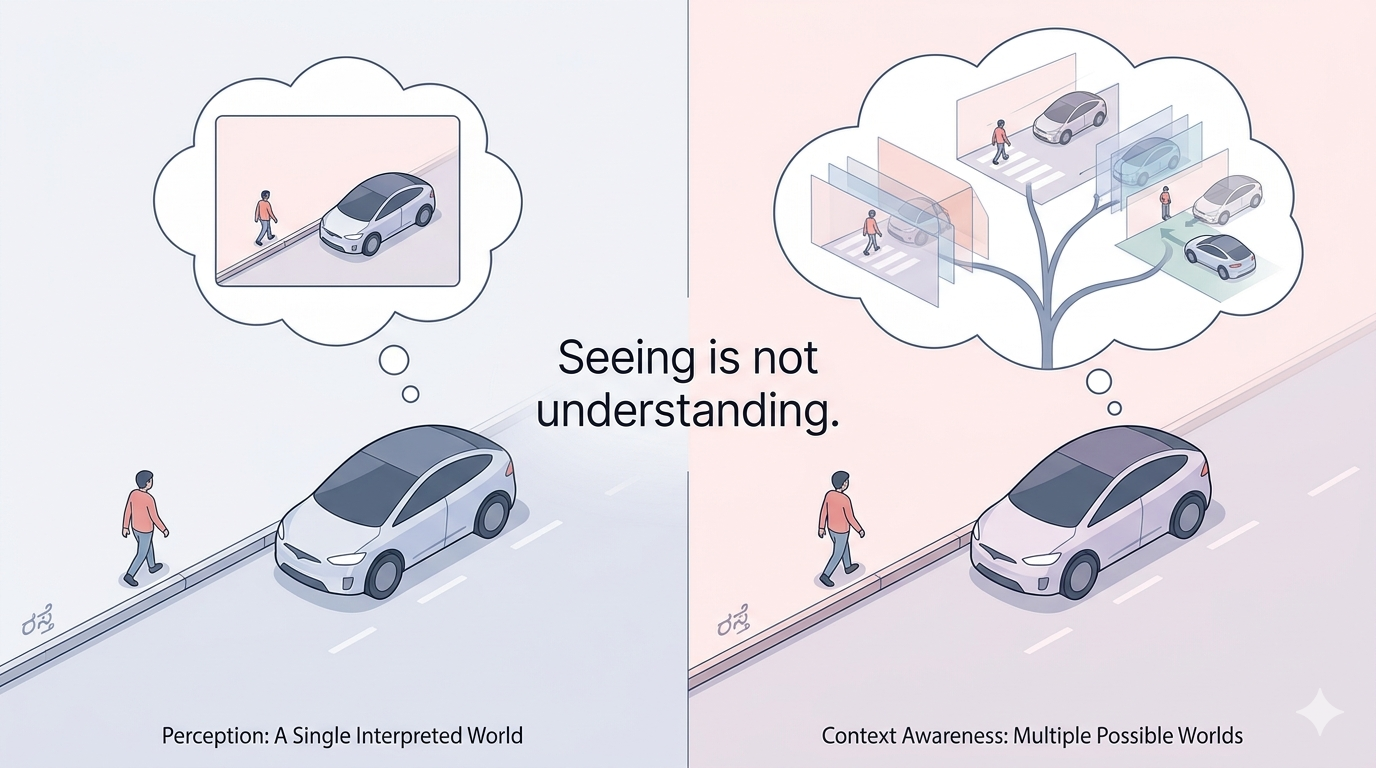
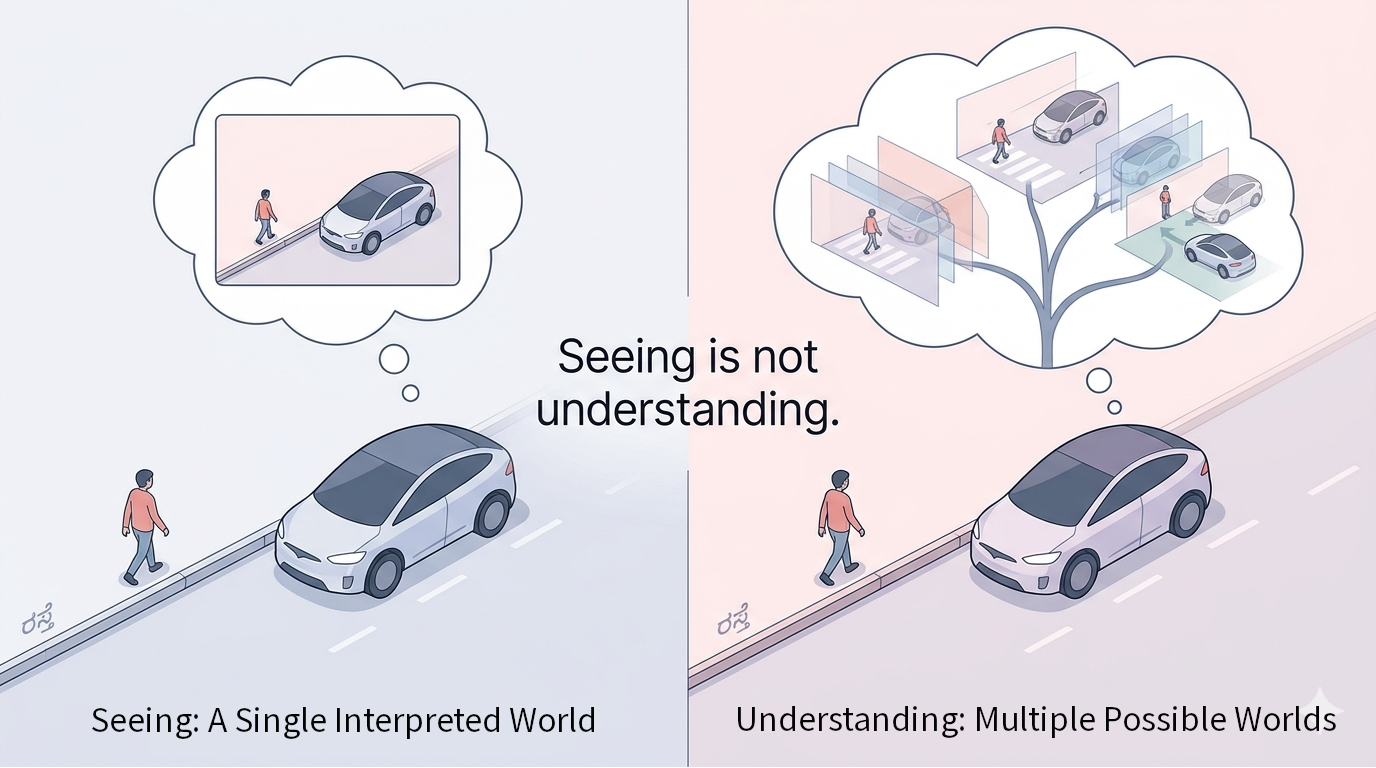
Update

diff --git a/index.html b/index.html
@@ -13,16 +13,35 @@
   <link rel="stylesheet" href="https://cdn.jsdelivr.net/npm/katex@0.16.10/dist/katex.min.css">
 </head>
 <body>
-  <div class="container">
+<div class="container">
     <header>
       <div class="name">Zengjie Zhang</div>
       <nav class="nav">
-        <a href="home.html" class="active">Home</a>
+        <a href="index.html" class="active">Home</a>
         <a href="blogs.html">Blogs</a>
       </nav>
     </header>
-
-    <section class="section-block">
+    
+    <!-- 两列布局容器 -->
+    <div class="content-with-sidebar">
+      <!-- 左侧边栏 -->
+      <aside class="sidebar">
+        <div class="sidebar-section">
+          <!-- <div class="sidebar-title">Connect</div> -->
+          <script src="https://platform.linkedin.com/badges/js/profile.js" async defer type="text/javascript"></script>
+        <div class="badge-base LI-profile-badge" data-locale="en_US" data-size="medium" data-theme="light" data-type="HORIZONTAL" data-vanity="zengjie-zhang" data-version="v1"><a class="badge-base__link LI-simple-link" href="https://nl.linkedin.com/in/zengjie-zhang?trk=profile-badge">CONNECT</a></div>
+        </div>
+        
+        <!-- 可选：添加其他侧边栏内容 -->
+        <!-- <div class="sidebar-section">
+          <div class="sidebar-title">Contact</div>
+          <p>Email: zengjie@azonai.co</p>
+        </div> -->
+      </aside>
+      
+      <!-- 右侧主要内容区域 -->
+      <main class="main-content">
+        <section class="section-block">
       <h2>About</h2>
       <p>
         I work on risk-aware verification and control of safety-critical autonomous systems, focusing on understanding and formalizing their safety and performance boundaries under uncertainty.
@@ -78,13 +97,15 @@
     <section>
       <h2>Recent Writing</h2>
       <ul class="blog-list">
+        <li><a href="blogs.html?id=20260316">High Accuracy, Low Understanding: The Hidden Gap in Autonomous Driving Safety</a></li>
         <li><a href="blogs.html?id=20260220">Beyond Scenarios: Why AI-Driven Scenario Testing Is Incomplete Without Formal Methods</a></li>
       </ul>
-    </section>
-
-    <footer>
+     </section>
+     <footer>
       © Zengjie Zhang · Personal Portfolio · <a href="mailto:zengjie@azonai.co">Contact</a>
     </footer>
+      </main>
+    </div>
   </div>
 
   <!-- 脚本加载 -->
@@ -102,7 +123,5 @@
       projectLoader.loadAndRenderAllProjects();
     });
   </script>
-  <script src="https://platform.linkedin.com/badges/js/profile.js" async defer type="text/javascript"></script>
-  <div class="badge-base LI-profile-badge" data-locale="en_US" data-size="medium" data-theme="light" data-type="HORIZONTAL" data-vanity="zengjie-zhang" data-version="v1"><a class="badge-base__link LI-simple-link" href="https://nl.linkedin.com/in/zengjie-zhang?trk=profile-badge">Zengjie Zhang</a></div>
 </body>
 </html>

diff --git a/js/markdown-loader.js b/js/markdown-loader.js
@@ -6,6 +6,7 @@ class MarkdownLoader {
     this.indexUrl = config.indexUrl || 'index.json';
     this.contentType = config.contentType || 'blog';
     this.enableMath = config.enableMath !== false; // 默认启用数学公式
+    this.enableMermaid = config.enableMermaid !== false; // 默认启用 Mermaid
     
     // 绑定方法
     this.init = this.init.bind(this);
@@ -14,6 +15,7 @@ class MarkdownLoader {
     this.renderList = this.renderList.bind(this);
     this.renderContent = this.renderContent.bind(this);
     this.renderMath = this.renderMath.bind(this);
+    this.renderMermaid = this.renderMermaid.bind(this);
   }
 
   // 新增：渲染数学公式的方法
@@ -33,6 +35,39 @@ class MarkdownLoader {
       });
     } catch (error) {
       console.warn('Math rendering error:', error);
+    }
+  }
+
+  // 新增：渲染 Mermaid 图表的方法
+  renderMermaid(element) {
+    if (!this.enableMermaid || typeof mermaid === 'undefined') return;
+    
+    try {
+      // 查找所有 Mermaid 代码块
+      const mermaidBlocks = element.querySelectorAll('pre code.language-mermaid');
+      
+      mermaidBlocks.forEach(codeBlock => {
+        const pre = codeBlock.parentElement;
+        if (pre && pre.tagName === 'PRE') {
+          // 创建新的 div 替换原来的 pre
+          const mermaidDiv = document.createElement('div');
+          mermaidDiv.className = 'mermaid';
+          mermaidDiv.textContent = codeBlock.textContent;
+          pre.parentNode.replaceChild(mermaidDiv, pre);
+        }
+      });
+      
+      // 渲染所有 mermaid 图表
+      const mermaidElements = element.querySelectorAll('.mermaid');
+      if (mermaidElements.length > 0 && typeof mermaid !== 'undefined') {
+        mermaid.run({
+          querySelector: '.mermaid',
+          nodes: mermaidElements,
+          suppressErrors: true
+        }).catch(err => console.warn('Mermaid rendering error:', err));
+      }
+    } catch (error) {
+      console.warn('Mermaid rendering error:', error);
     }
   }
 
@@ -96,10 +131,13 @@ class MarkdownLoader {
       </div>
     `;
     
-    // 2. 再渲染数学公式（关键步骤）
+    // 2. 渲染数学公式
     const articleContent = contentEl.querySelector('.article-content');
     if (articleContent) {
       this.renderMath(articleContent);
+      
+      // 3. 渲染 Mermaid 图表（在数学公式之后）
+      this.renderMermaid(articleContent);
     }
   }
 

diff --git a/style.css b/style.css
@@ -55,10 +55,53 @@ a:hover {
    Layout
 ========================= */
 
+
 .container {
-  max-width: 720px;
+  max-width: 1200px;  /* 改为 1200px 以容纳两列布局 */
   padding: 64px 24px 96px;
   margin: 0 auto;
+}
+
+.blog-container {
+  max-width: 720px;  /* 改为 1200px 以容纳两列布局 */
+  padding: 64px 24px 96px;
+  margin: 0 auto;
+}
+
+/* 保持主内容区域的阅读宽度，提升可读性 */
+.main-content {
+  max-width: 720px;  /* 限制主内容宽度，保持原有阅读体验 */
+}
+
+/* 调整响应式断点 */
+@media (max-width: 900px) {
+  .container {
+    max-width: 100%;
+    padding: 48px 16px;
+  }
+  
+  .content-with-sidebar {
+    flex-direction: column;
+  }
+  
+  .sidebar {
+    flex: 0 0 auto;
+    margin-bottom: 1.5rem;
+  }
+  
+  .main-content {
+    max-width: 100%;  /* 移动端取消宽度限制 */
+  }
+
+  header {
+    flex-direction: column;
+    align-items: flex-start;
+    gap: 12px;
+  }
+
+  nav a {
+    margin-left: 0;
+  }
 }
 
 header {
@@ -168,27 +211,6 @@ article code {
 
 .article-content h3 {
   margin-top: 0.6em;
-}
-
-/* =========================
-   Responsive
-========================= */
-
-@media (max-width: 768px) {
-  .container {
-    max-width: 100%;
-    padding: 48px 16px;
-  }
-
-  header {
-    flex-direction: column;
-    align-items: flex-start;
-    gap: 12px;
-  }
-
-  nav a {
-    margin-left: 0;
-  }
 }
 
 /* =========================
@@ -315,4 +337,54 @@ article code {
 
 .nav {
   font-size: 1.2rem;
+}
+
+/* 添加两列布局样式 */
+.content-with-sidebar {
+  display: flex;
+  gap: 2rem;
+  margin: 2rem 0;
+}
+
+.sidebar {
+  flex: 0 0 280px; /* 固定宽度 280px */
+}
+
+.main-content {
+  flex: 1;
+  min-width: 0; /* 防止内容溢出 */
+}
+
+/* 移动端适配：在小屏幕上改为单列布局 */
+@media (max-width: 768px) {
+  .content-with-sidebar {
+    flex-direction: column;
+  }
+  
+  .sidebar {
+    flex: 0 0 auto;
+    margin-bottom: 1.5rem;
+  }
+}
+
+/* 调整 LinkedIn Badge 样式，使其更适合侧边栏 */
+.sidebar .badge-base {
+  width: 100% !important;
+}
+
+/* 可选：添加一些间距和视觉效果 */
+.sidebar-section {
+  background: #f9f9f9;
+  padding: 1rem;
+  border-radius: 8px;
+  margin-bottom: 1.5rem;
+}
+
+.sidebar-title {
+  font-size: 0.9rem;
+  font-weight: 600;
+  color: #666;
+  margin-bottom: 0.75rem;
+  text-transform: uppercase;
+  letter-spacing: 0.5px;
 }

diff --git a/blogs.html b/blogs.html
@@ -9,9 +9,11 @@
   <link href="https://fonts.googleapis.com/css2?family=Spectral:ital,wght@0,200;0,300;0,400;0,500;0,600;0,700;0,800;1,200;1,300;1,400;1,500;1,600;1,700;1,800&display=swap" rel="stylesheet">
   <link rel="stylesheet" href="style.css">
   <link rel="stylesheet" href="https://cdn.jsdelivr.net/npm/katex@0.16.10/dist/katex.min.css">
+  <!-- 添加 Mermaid CDN -->
+  <script src="https://cdn.jsdelivr.net/npm/mermaid@10/dist/mermaid.min.js"></script>
 </head>
 <body>
-  <div class="container">
+  <div class="blog-container">
     <header>
       <div>Zengjie Zhang</div>
       <nav>
@@ -34,12 +36,23 @@
   <script src="https://cdn.jsdelivr.net/npm/marked/marked.min.js"></script>
   <script src="js/markdown-loader.js"></script>
   <script>
+    // 初始化 Mermaid（必须在使用前初始化）
+    if (typeof mermaid !== 'undefined') {
+      mermaid.initialize({ 
+        startOnLoad: false, 
+        theme: 'default',
+        securityLevel: 'loose'
+      });
+    }
+    
     // 初始化博客加载器
     const blogLoader = new MarkdownLoader({
       contentContainerId: 'blog-content',
       listContainerId: 'blog-list',
       indexUrl: 'blogs/index.json',
-      contentType: 'blog'
+      contentType: 'blog',
+      enableMath: true,      // 启用数学公式
+      enableMermaid: true    // 启用 Mermaid
     });
     
     blogLoader.init();

diff --git a/blogs/20260316/main.md b/blogs/20260316/main.md
@@ -18,9 +18,8 @@ In simpler terms:
 
 > *Seeing correctly does not necessarily imply understanding correctly*.
 
-
 <div style="text-align: center;">
-<img src="blogs/20260316/figure.png" alt="SOTIF" width="700">
+<img src="blogs/20260316/figure.png" alt="SOTIF" width="640">
 </div>
 
 Crucially, this gap is often invisible in standard evaluation pipelines. Aggregate metrics such as *mean Average Precision (mAP)* or *prediction accuracy* implicitly assume that correctness at the level of individual objects composes into correctness at the system level.
@@ -87,8 +86,11 @@ To understand why such failures persist, we need to examine the structural role 
 
 A common design paradigm assumes a clean separation between perception and decision-making: perception is responsible for extracting a semantically correct representation of the environment, while planning operates on top of this representation to compute actions. This paradigm is often abstracted as:
 
-```
-Raw Sensor Data → Object-Level Representation → Semantic Scene Representation → Planner
+```mermaid
+graph LR
+    A[Sensors] -->|Raw Sensor<br>Data| B[Detection and<br>Classification]
+    B -->|Object-Level<br>Representation| C[Semantic<br>Segmentation]
+    C -->|Semantic Scene<br>Representation| D[Planner]
 ```
 
 Within this framework, once objects are correctly detected, localized, and classified, the core difficulty of the problem appears to be largely resolved.
@@ -392,16 +394,9 @@ It requires a more coordinated view — a way for different parts of the system,
 ## References
 
 1. M. Teichmann, M. Weber, M. Zoellner, R. Cipolla, and R. Urtasun. (2018). *MultiNet: Real-time Joint Semantic Reasoning for Autonomous Driving*. arXiv:1612.07695, https://arxiv.org/abs/1612.07695.
-
 2. M. Diao, L. Yang, H. Yin, Z. Wang, Y. Wang, D. Tian, K. Liang, and Z. Ma. (2026). *DriveRX: A Vision-Language Reasoning Model for Cross-Task Autonomous Driving*. arXiv: 2505.20665，https://arxiv.org/abs/2505.20665.
-
 3. J. Wang, Y. Jin, H. Taghavifar, F. Ding, and C. Wei. (2025). *Socially-Aware Autonomous Driving: Inferring Yielding Intentions for Safer Interactions*. arXiv:2504.20004, https://arxiv.org/abs/2504.20004.
-
-
 4. L. Zhang, Y. Yuan, C. Wu, X. Chang, X. Cai, S. Zeng, L. Shi, S. Wang, H. Zhang, and M. Xu. (2026). *MindDriver: Introducing Progressive Multimodal Reasoning for Autonomous Driving*. arXiv: 2602.21952, https://arxiv.org/abs/2602.21952.
-
 5. S. Qi, Z. Zhang, Z. Sun, and S. Haesaert. (2026). *Risk-Aware Autonomous Driving with Linear Temporal Logic Specifications*. arXiv:2409.09769，https://arxiv.org/abs/2409.09769.
-
 6. L. Zhang, S. Han, and S. Grammatico. (2025). *Automated Lane Merging via Game Theory and Branch Model Predictive Control*. arXiv:2311.14916, https://arxiv.org/abs/2311.14916.
-
 7. L. Zheng, L. Zhang, P. Yu, Y. Sun, S. Grammatico, J. Ma, and C. Liu. (2026). *Contingency Planning for Safety-Critical Autonomous Vehicles: A Review and Perspectives*. arXiv:2601.14880, https://arxiv.org/abs/2601.14880.
